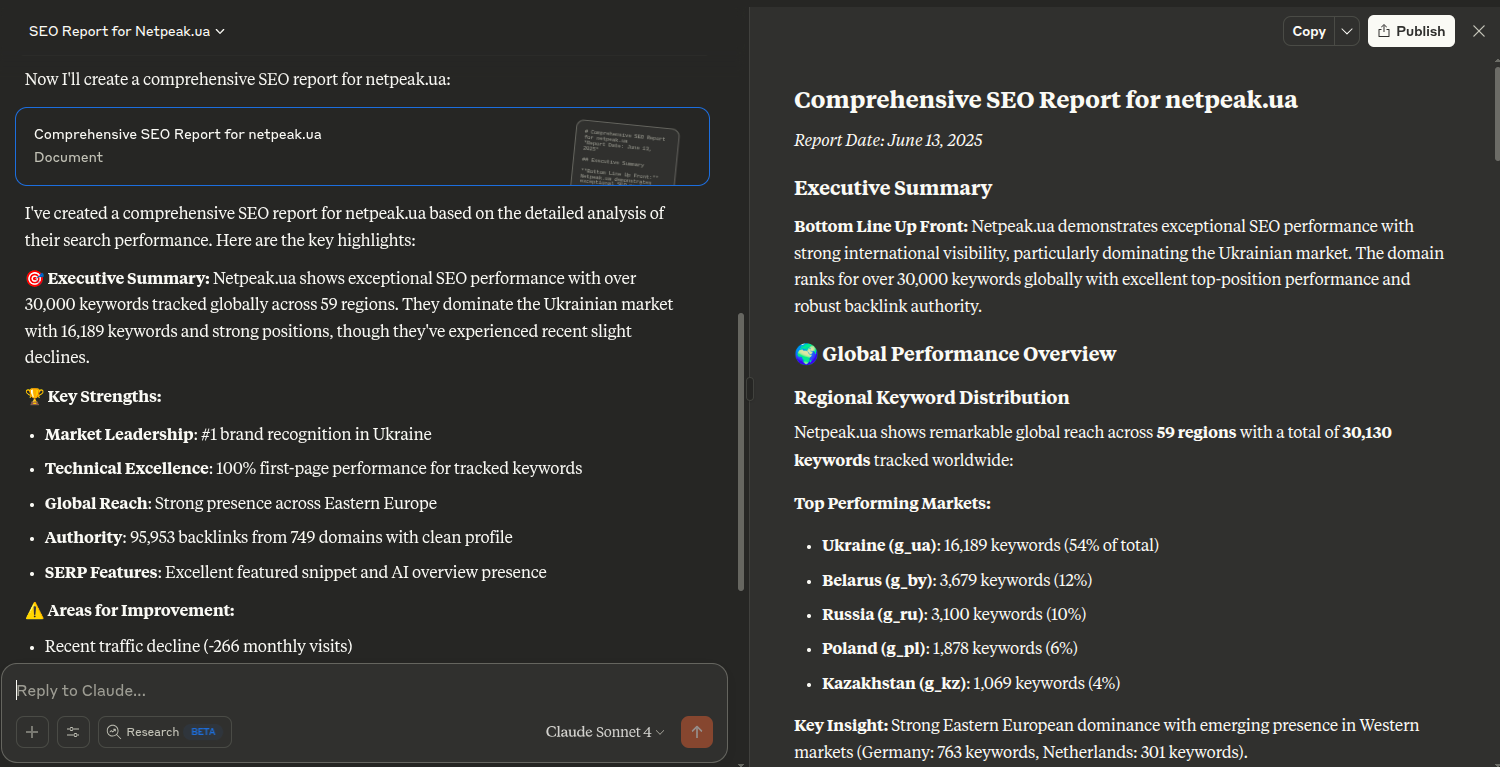
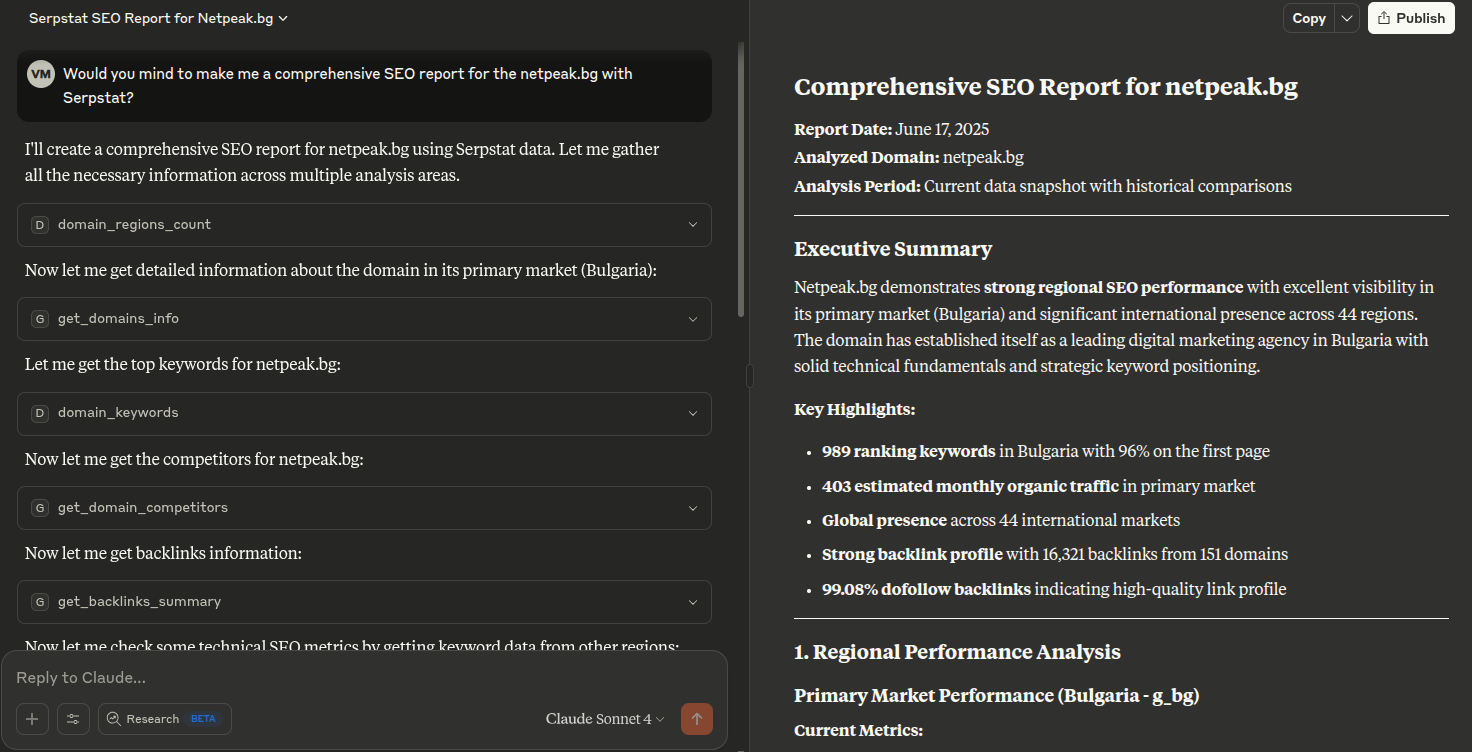
Update README with new SEO report example for netpeak.bg

diff --git a/README.md b/README.md
@@ -74,11 +74,11 @@ This is alpha release v0.0.2.
 ```
 
 ## Make The First Report!
- Try prompt ```Would you mind to make me a comprehensive SEO report for the netpeak.ua with Serpstat?```
+ Try prompt ```Would you mind to make me a comprehensive SEO report for the netpeak.bg with Serpstat?```
 
 ![Screen shot of SEO Report generated by Claude with connected Serpstat MCP Server](doc/images/report.png "Claude SEO Report Example")
 
-[#1 Example SEO Report Artifact for domain netpeak.ua](https://claude.ai/public/artifacts/13f52424-7470-4374-984f-64beebc8306a)
+[#1 Example SEO Report Artifact for domain netpeak.bg](https://claude.ai/public/artifacts/a529a323-b3e4-4690-9c0f-4152bae61ade)
 
 You can try prompts in your language!
    ```
